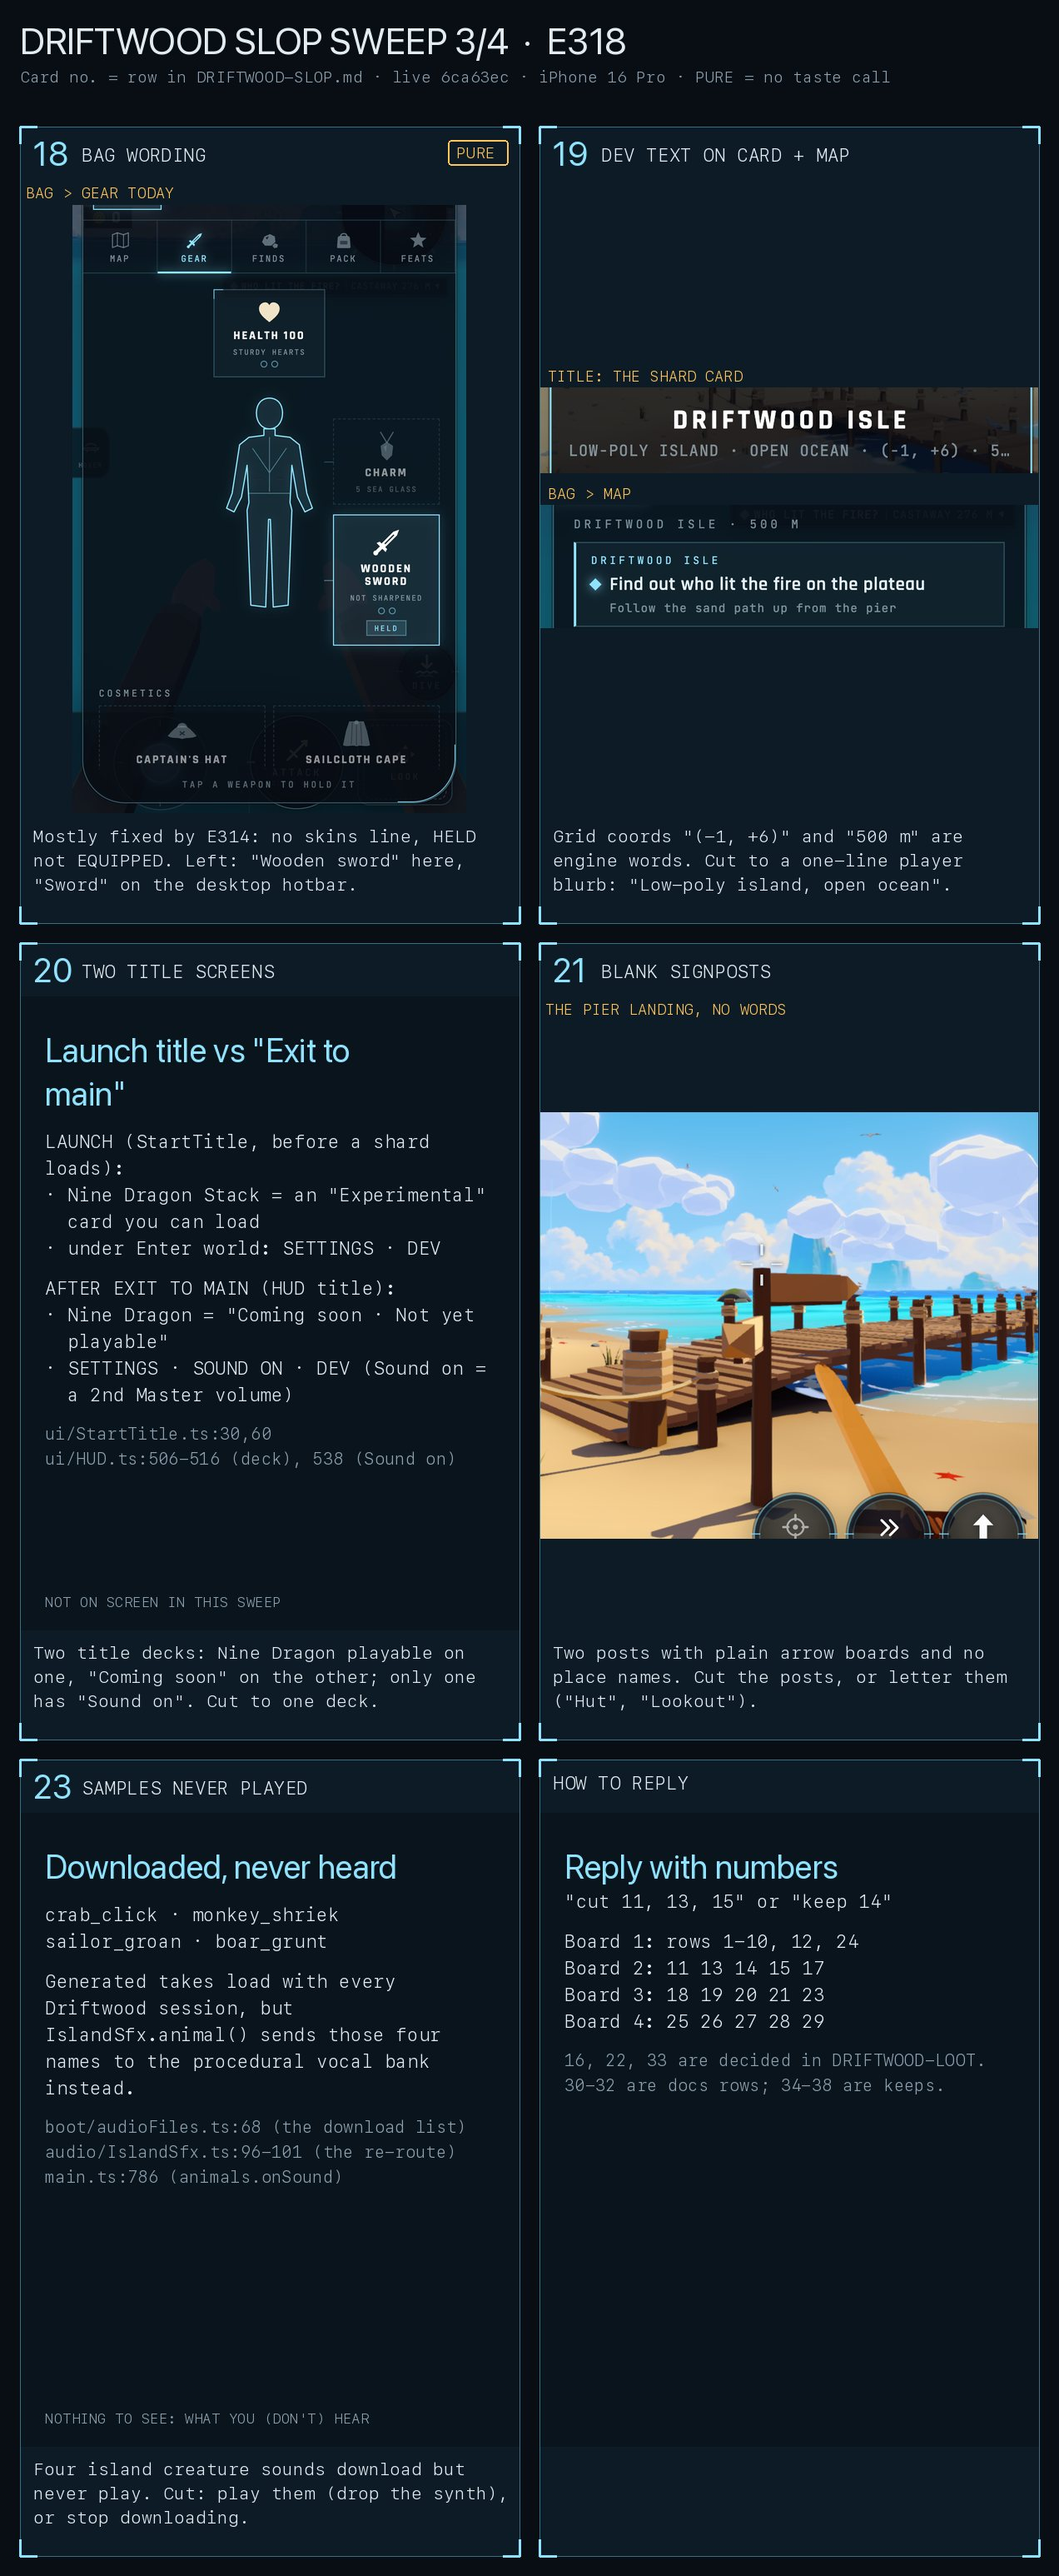
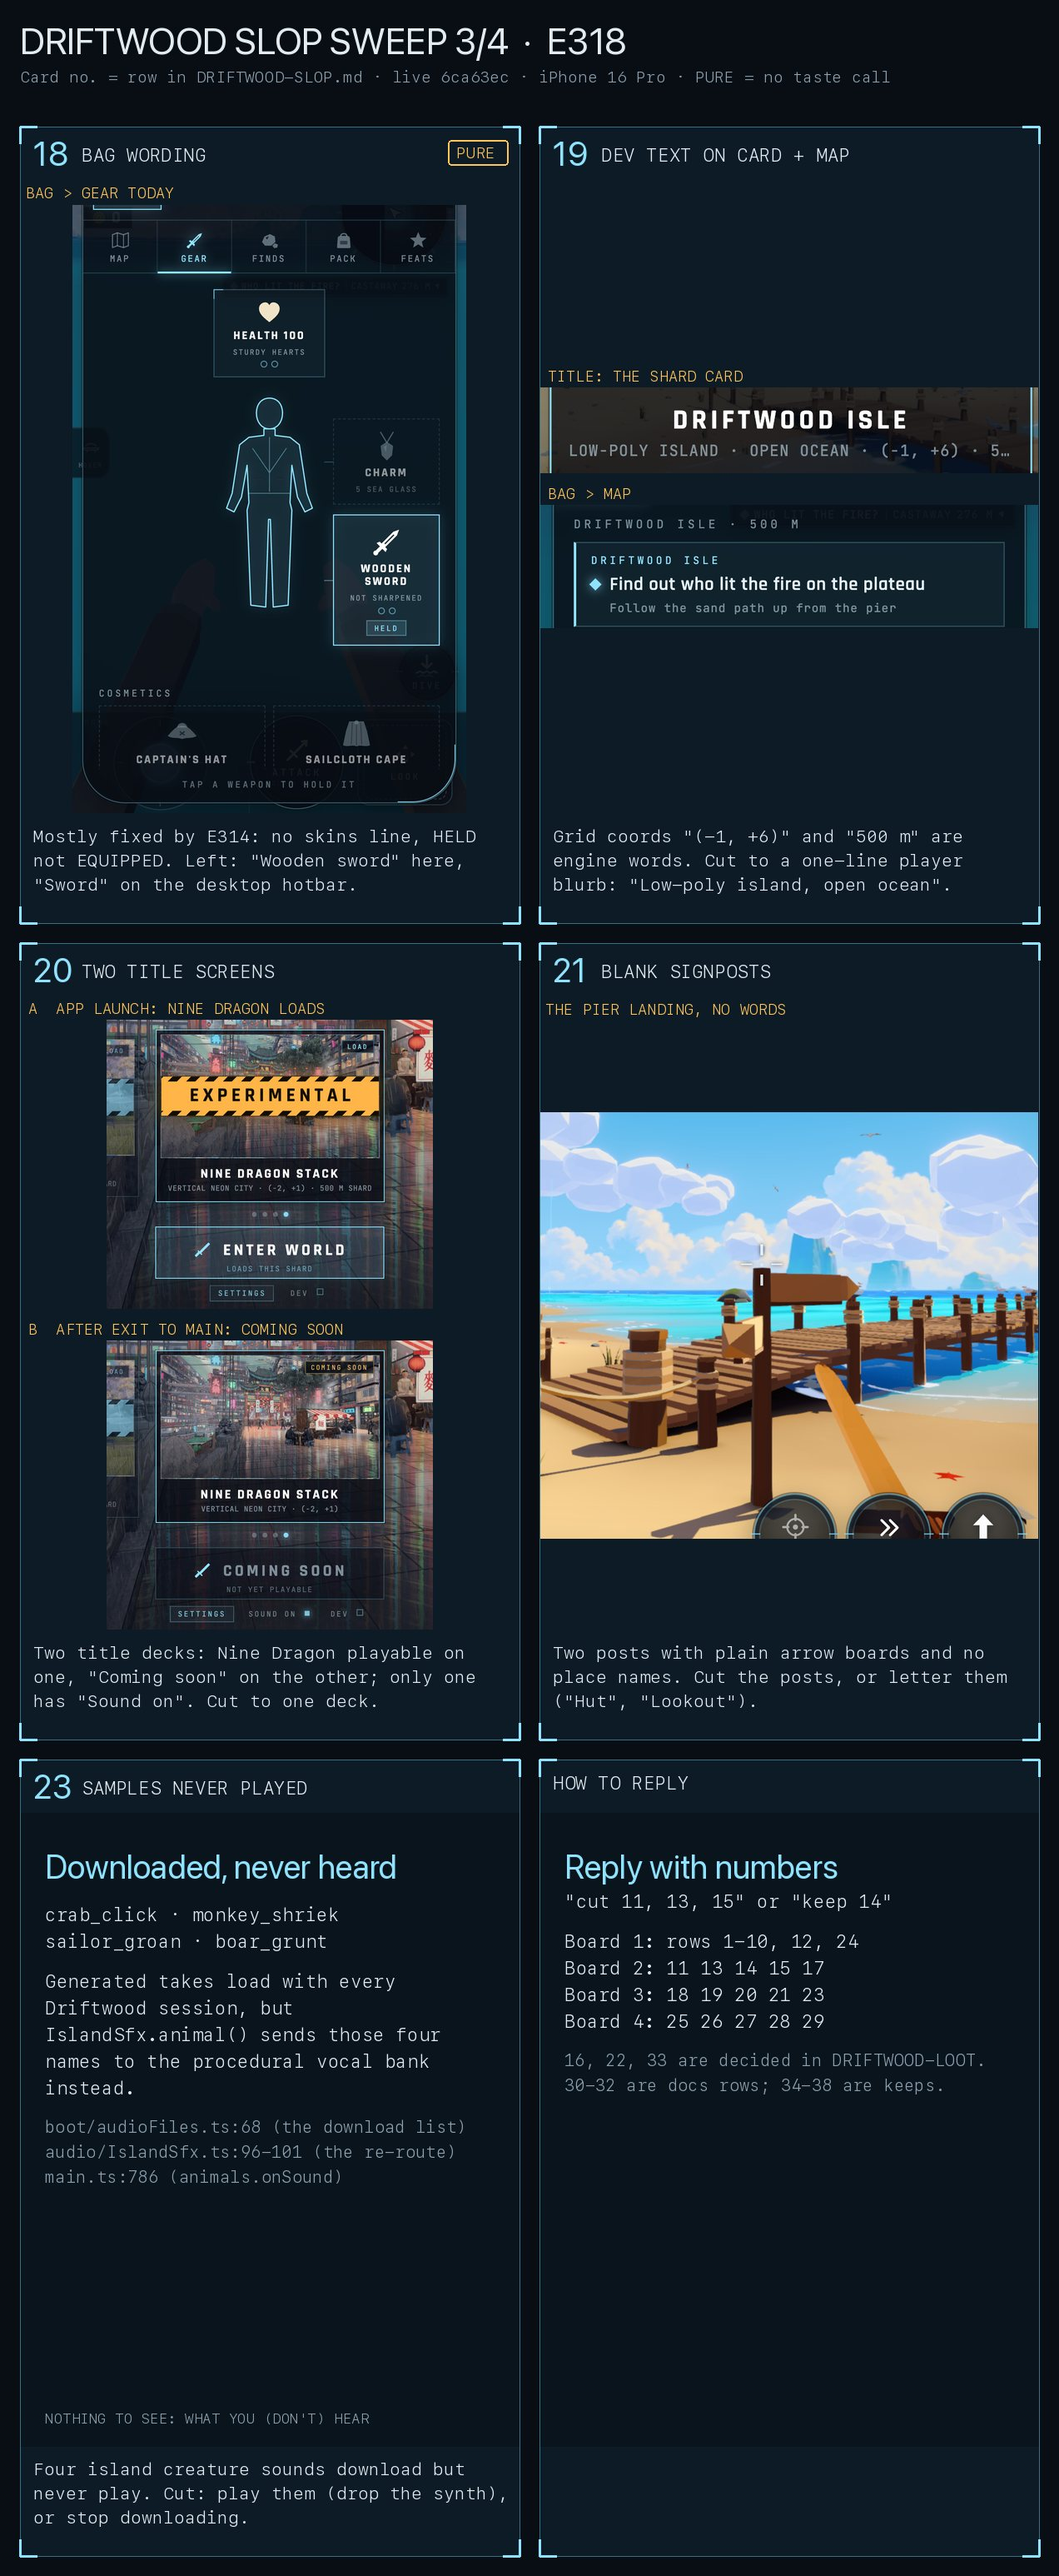
E318 board 3: card 20 shows both title decks on the Nine Dragon card (app launch vs Exit to main)
Claude-Session: https://claude.ai/code/session_01RUTMXusCT4DQ7jBQdY4bnH

Changed region(s): [[0.0307, 0.3726, 0.4292, 0.652]]

diff --git a/art/driftwood-audit/round-4-slop-sweep/README.md b/art/driftwood-audit/round-4-slop-sweep/README.md
@@ -42,8 +42,9 @@ DRIFTWOOD-LOOT; 30–32 are docs rows; 34–38 are keeps, so they have no card.
 - **Two rows are out of date on the live build:** **15** (E314's Bag ▸ Finds now reads `found:reef-treasure` and shows
   the pearl necklace as a treasure, `src/game/loot/finds.ts:52`), and **18** (the Gear tab now says "Tap a weapon to
   hold it" and HELD; only "Wooden sword" vs the desktop hotbar's "Sword" is left).
-- **Text cards:** 14 and 23 are sounds, 27–29 are code only, and 20 is text (both decks look the same until you swipe
-  to the Nine Dragon card).
+- **Text cards:** 14 and 23 are sounds, 27–29 are code only. Card 20's A is the app-launch title (the bare URL, as the
+  home-screen PWA opens it: `src/boot/entry.ts:43` shows StartTitle only with no query params), swiped to the Nine
+  Dragon card; B is the in-game title after Exit to main, same card.
 
 | Image | Cards |
 |---|---|
